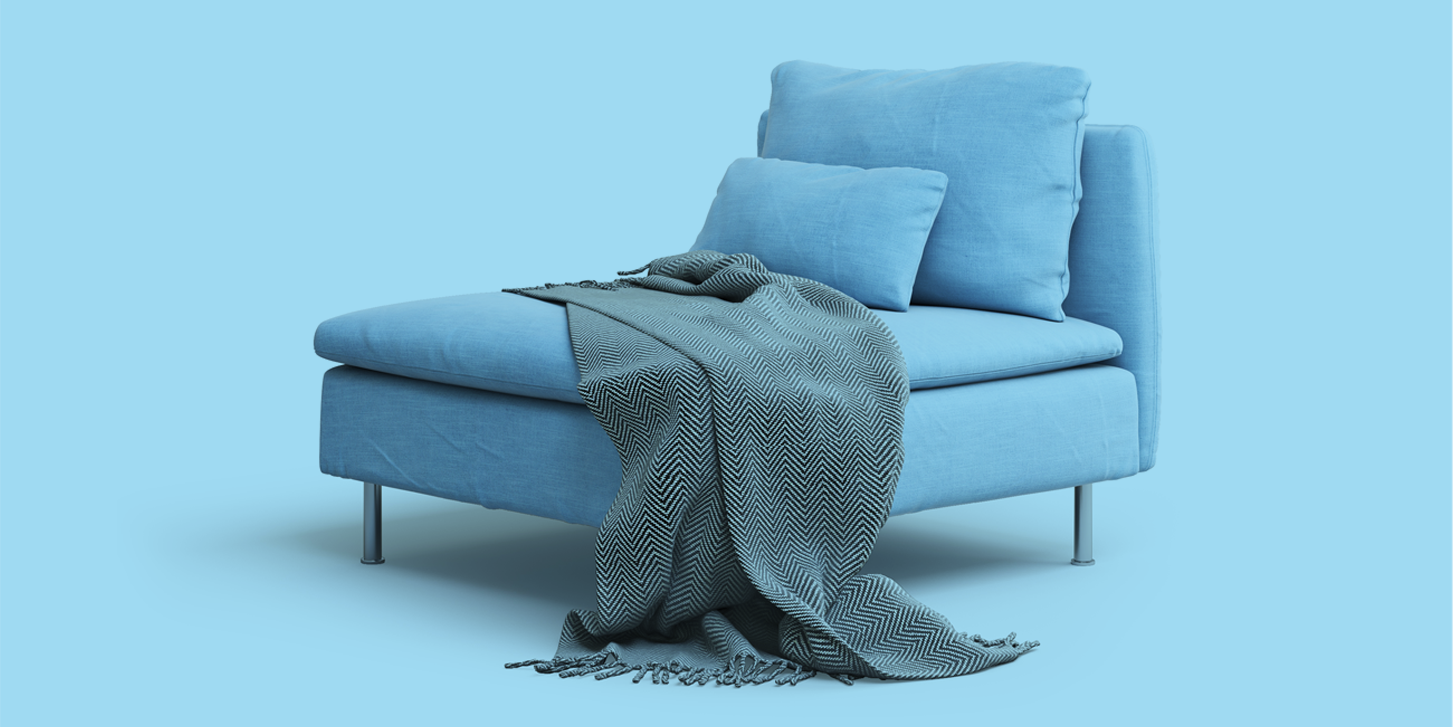
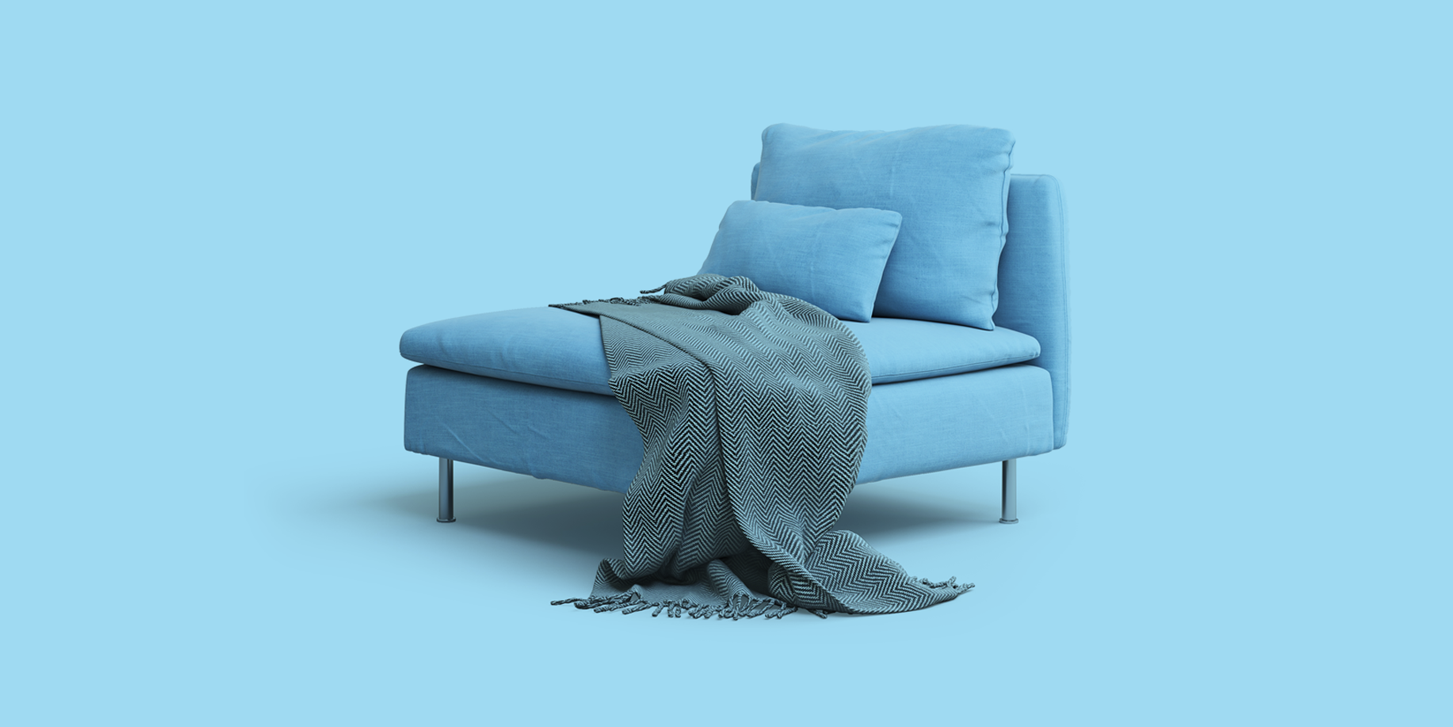
mobile and tablet optimisation

Changed region(s): [[0.1549, 0.0908, 0.8052, 0.9684]]

diff --git a/index.php b/index.php
@@ -66,6 +66,43 @@
             padding: 10px;
             font-weight: 500 !important;
         }
+        .welcome-desc {
+            text-align: justify;
+            font-size: 17px;
+        }
+
+        .slider-custom {
+            font-size: 80px !important;
+        }
+
+        @media screen and (max-width: 767px){
+            .welcome-desc {
+                font-size: 11px !important;
+                line-height: 16px !important;
+            }
+            .slider-custom {
+                font-size: 40px !important;
+            }
+        }
+        @media (min-width: 768px) and (max-width: 990px){
+            .welcome-desc {
+                font-size: 12px !important;
+            }
+            .slider-custom {
+                font-size: 69px !important;
+                line-height: 89px !important;
+            }
+        }
+        @media (min-width: 991px) and (max-width: 1024px){
+            .welcome-desc {
+                font-size: 11px !important;
+                line-height: 14px !important;
+            }
+            .slider-custom {
+                font-size: 50px !important;
+                line-height: 64px !important;
+            }
+        }
     </style>
 
 </head>
@@ -153,7 +190,7 @@
                         style="z-index: 6; white-space: nowrap; font-size: 18px; line-height: 36px; font-weight: 400; color: #333333; font-family:Work Sans;"> </div>
             
                     <!-- LAYER NR. 3 -->
-                    <div class="tp-caption   tp-resizeme" 
+                    <div class="tp-caption tp-resizeme slider-custom" 
                          id="slide-27-layer-3" 
                          data-x="['left','center','center','left']" data-hoffset="['1171','288','-84','47']" 
                          data-y="['top','middle','middle','top']" data-voffset="['338','0','-189','142']" 
@@ -173,7 +210,7 @@
                         data-paddingbottom="[0,0,0,0]"
                         data-paddingleft="[0,0,0,0]"
             
-                        style="z-index: 7; white-space: nowrap; font-size: 100px; line-height: 120px; font-weight: 600; color: #333333; letter-spacing: 0px;font-family:Work Sans;"><p style="font-size: 80px;"> Contemporary <br> designs </p></div>
+                        style="z-index: 7; white-space: nowrap; line-height: 120px; font-weight: 600; color: #444444; letter-spacing: 0px;font-family:Work Sans;">Contemporary <br> designs</div>
             
             
                     <!-- LAYER NR. 5 -->
@@ -293,7 +330,7 @@
                         data-paddingbottom="[0,0,0,0]"
                         data-paddingleft="[0,0,0,0]"
             
-                        style="z-index: 13;background-color:rgb(155,155,155);"> </div>
+                        style="z-index: 13;background-color:rgb(98,98,98);"> </div>
             
                     <!-- LAYER NR. 10 -->
                     <a class="tp-caption   tp-resizeme" id="slide-27-layer-25" 
@@ -301,7 +338,7 @@
                          data-y="['top','middle','middle','top']" data-voffset="['486','56','119','23']" 
                                     data-fontsize="['34','34','100','60']"
                         data-lineheight="['72','72','100','90']"
-                        data-color="['rgb(155,155,155)','rgb(51,51,51)','rgb(51,51,51)','rgb(51,51,51)']"
+                        data-color="['rgb(98,98,98)','rgb(51,51,51)','rgb(51,51,51)','rgb(51,51,51)']"
                         data-width="none"
                         data-height="none"
                         data-whitespace="nowrap"
@@ -325,7 +362,7 @@
                          data-y="['top','middle','middle','top']" data-voffset="['561','130','-27','251']" 
                                     data-fontsize="['34','34','100','60']"
                         data-lineheight="['72','72','100','90']"
-                        data-color="['rgb(155,155,155)','rgb(155,155,155)','rgb(51,51,51)','rgb(51,51,51)']"
+                        data-color="['rgb(98,98,98)','rgb(98,98,98)','rgb(51,51,51)','rgb(51,51,51)']"
                         data-width="none"
                         data-height="none"
                         data-whitespace="nowrap"
@@ -349,7 +386,7 @@
                          data-y="['top','middle','middle','top']" data-voffset="['637','205','-174','495']" 
                                     data-fontsize="['34','34','100','60']"
                         data-lineheight="['72','72','100','90']"
-                        data-color="['rgb(155,155,155)','rgb(155,155,155)','rgb(51,51,51)','rgb(51,51,51)']"
+                        data-color="['rgb(98,98,98)','rgb(98,98,98)','rgb(51,51,51)','rgb(51,51,51)']"
                         data-width="none"
                         data-height="none"
                         data-whitespace="nowrap"
@@ -393,7 +430,7 @@
                         data-paddingleft="[0,0,0,0]"
             
                         style="z-index: 5;">
-                    <div class="rs-looped rs-slideloop"  data-easing="" data-speed="2" data-xs="0" data-xe="0" data-ys="-10" data-ye="10"><img src="assets/images/revimages/dummy.png" alt="" data-ww="['341auto','341auto','341auto','226px']" data-hh="['651px','651px','651px','432px']" data-lazyload="assets/images/slider/slider_3.png" data-no-retina> </div></div>
+                    <div class="rs-looped rs-slideloop"  data-easing="" data-speed="2" data-xs="0" data-xe="0" data-ys="-10" data-ye="10"><img src="assets/images/revimages/dummy.png" alt="" data-ww="['361auto','361auto','361auto','246px']" data-hh="['671px','671px','671px','452px']" data-lazyload="assets/images/slider/slider_3.png" data-no-retina> </div></div>
             
                     <!-- LAYER NR. 14 -->
                     <div class="tp-caption   tp-resizeme" 
@@ -440,7 +477,7 @@
                         data-paddingbottom="[0,0,0,0]"
                         data-paddingleft="[0,0,0,0]"
             
-                        style="z-index: 7; white-space: nowrap; font-size: 100px; line-height: 120px; font-weight: 600; color: #333333; letter-spacing: 0px;font-family:Work Sans;">Innovative<br> concepts </div>
+                        style="z-index: 7; white-space: nowrap; font-size: 100px; line-height: 120px; font-weight: 600; color: #444444; letter-spacing: 0px;font-family:Work Sans;">Innovative<br> concepts </div>
             
                    
             
@@ -561,7 +598,7 @@
                         data-paddingbottom="[0,0,0,0]"
                         data-paddingleft="[0,0,0,0]"
             
-                        style="z-index: 13;background-color:rgb(155,155,155);"> </div>
+                        style="z-index: 13;background-color:rgb(98,98,98);"> </div>
             
                     <!-- LAYER NR. 22 -->
                     <a class="tp-caption   tp-resizeme" id="slide-28-layer-25" 
@@ -569,7 +606,7 @@
                          data-y="['top','middle','middle','top']" data-voffset="['486','56','119','23']" 
                                     data-fontsize="['34','34','100','60']"
                         data-lineheight="['72','72','100','90']"
-                        data-color="['rgb(155,155,155)','rgb(51,51,51)','rgb(51,51,51)','rgb(51,51,51)']"
+                        data-color="['rgb(98,98,98)','rgb(51,51,51)','rgb(51,51,51)','rgb(51,51,51)']"
                         data-width="none"
                         data-height="none"
                         data-whitespace="nowrap"
@@ -593,7 +630,7 @@
                          data-y="['top','middle','middle','top']" data-voffset="['561','130','-27','251']" 
                                     data-fontsize="['34','34','100','60']"
                         data-lineheight="['72','72','100','90']"
-                        data-color="['rgb(155,155,155)','rgb(155,155,155)','rgb(51,51,51)','rgb(51,51,51)']"
+                        data-color="['rgb(98,98,98)','rgb(98,98,98)','rgb(51,51,51)','rgb(51,51,51)']"
                         data-width="none"
                         data-height="none"
                         data-whitespace="nowrap"
@@ -617,7 +654,7 @@
                          data-y="['top','middle','middle','top']" data-voffset="['637','205','-174','495']" 
                                     data-fontsize="['34','34','100','60']"
                         data-lineheight="['72','72','100','90']"
-                        data-color="['rgb(155,155,155)','rgb(155,155,155)','rgb(51,51,51)','rgb(51,51,51)']"
+                        data-color="['rgb(98,98,98)','rgb(98,98,98)','rgb(51,51,51)','rgb(51,51,51)']"
                         data-width="none"
                         data-height="none"
                         data-whitespace="nowrap"
@@ -708,7 +745,7 @@
                         data-paddingbottom="[0,0,0,0]"
                         data-paddingleft="[0,0,0,0]"
             
-                        style="z-index: 7; white-space: nowrap; font-size: 100px; line-height: 120px; font-weight: 600; color: #333333; letter-spacing: 0px;font-family:Work Sans;">Vibrant<br> colours </div>
+                        style="z-index: 7; white-space: nowrap; font-size: 100px; line-height: 120px; font-weight: 600; color: #444444; letter-spacing: 0px;font-family:Work Sans;">Vibrant<br> colours </div>
             
             
                     <!-- LAYER NR. 29 -->
@@ -828,7 +865,7 @@
                         data-paddingbottom="[0,0,0,0]"
                         data-paddingleft="[0,0,0,0]"
             
-                        style="z-index: 13;background-color:rgb(155,155,155);"> </div>
+                        style="z-index: 13;background-color:rgb(98,98,98);"> </div>
             
                     <!-- LAYER NR. 34 -->
                     <a class="tp-caption   tp-resizeme" id="slide-29-layer-25" 
@@ -836,7 +873,7 @@
                          data-y="['top','middle','middle','top']" data-voffset="['486','56','119','23']" 
                                     data-fontsize="['34','34','100','60']"
                         data-lineheight="['72','72','100','90']"
-                        data-color="['rgb(155,155,155)','rgb(51,51,51)','rgb(51,51,51)','rgb(51,51,51)']"
+                        data-color="['rgb(98,98,98)','rgb(51,51,51)','rgb(51,51,51)','rgb(51,51,51)']"
                         data-width="none"
                         data-height="none"
                         data-whitespace="nowrap"
@@ -860,7 +897,7 @@
                          data-y="['top','middle','middle','top']" data-voffset="['561','130','-27','251']" 
                                     data-fontsize="['34','34','100','60']"
                         data-lineheight="['72','72','100','90']"
-                        data-color="['rgb(155,155,155)','rgb(155,155,155)','rgb(51,51,51)','rgb(51,51,51)']"
+                        data-color="['rgb(98,98,98)','rgb(98,98,98)','rgb(51,51,51)','rgb(51,51,51)']"
                         data-width="none"
                         data-height="none"
                         data-whitespace="nowrap"
@@ -884,7 +921,7 @@
                          data-y="['top','middle','middle','top']" data-voffset="['637','205','-174','495']" 
                                     data-fontsize="['34','34','100','60']"
                         data-lineheight="['72','72','100','90']"
-                        data-color="['rgb(155,155,155)','rgb(155,155,155)','rgb(51,51,51)','rgb(51,51,51)']"
+                        data-color="['rgb(98,98,98)','rgb(98,98,98)','rgb(51,51,51)','rgb(51,51,51)']"
                         data-width="none"
                         data-height="none"
                         data-whitespace="nowrap"
@@ -1113,9 +1150,10 @@
                     data-paddingbottom="[0,0,0,0]"
                     data-paddingleft="[0,0,0,0]"
         
-                    style="z-index: 13; font-size: 20px; line-height: 26px; font-weight: 400; color: #7e7e7e; letter-spacing: 0.5px;font-family:Work Sans;">
-                    <p style="text-align: justify;">
-                    Welcome to the world  of Estética where you will consume <br> and experience furnishing like never before! </p> 
+                    style="z-index: 13; line-height: 26px; font-weight: 400; color: #7e7e7e; letter-spacing: 0.5px;font-family:Work Sans;">
+                    <p class="welcome-desc">
+                        Welcome to the world  of Estética where you will consume <br> and experience furnishing like never before!
+                    </p> 
                 </div>
         
                 <!-- LAYER NR. 10 -->
@@ -1169,7 +1207,7 @@
                     <!--=======  section title  =======-->
                     
                     <div class="section-title section-title--one text-center">
-                        <h2 style="font-size: 35px;color: #444444;">Our Services</h2>
+                        <h2 style="font-size: 35px;color: #444444;">Services</h2>
                     </div>
                     
                     <!--=======  End of section title  =======-->

diff --git a/includes/products_home.php b/includes/products_home.php
@@ -5,7 +5,7 @@
                     <!--=======  section title  =======-->
                     
                     <div class="section-title section-title--one text-center">
-                        <h2 style="font-size: 35px;color: #444444;">Our Products</h2>
+                        <h2 style="font-size: 35px;color: #444444;">Products</h2>
                     </div>
                     
                     <!--=======  End of section title  =======-->

diff --git a/includes/blog_home.php b/includes/blog_home.php
@@ -7,7 +7,7 @@
                     <!--=======  blog intro  =======-->
                     
                     <div class="blog-intro">
-                        <h3 style="font-size: 35px;color: #444444;">From our Blog</h3><br>
+                        <h3 style="font-size: 35px;color: #444444;">Blog</h3><br>
                         <a href="blog" class="lezada-button lezada-button--medium">view all</a>
                     </div>
                     
